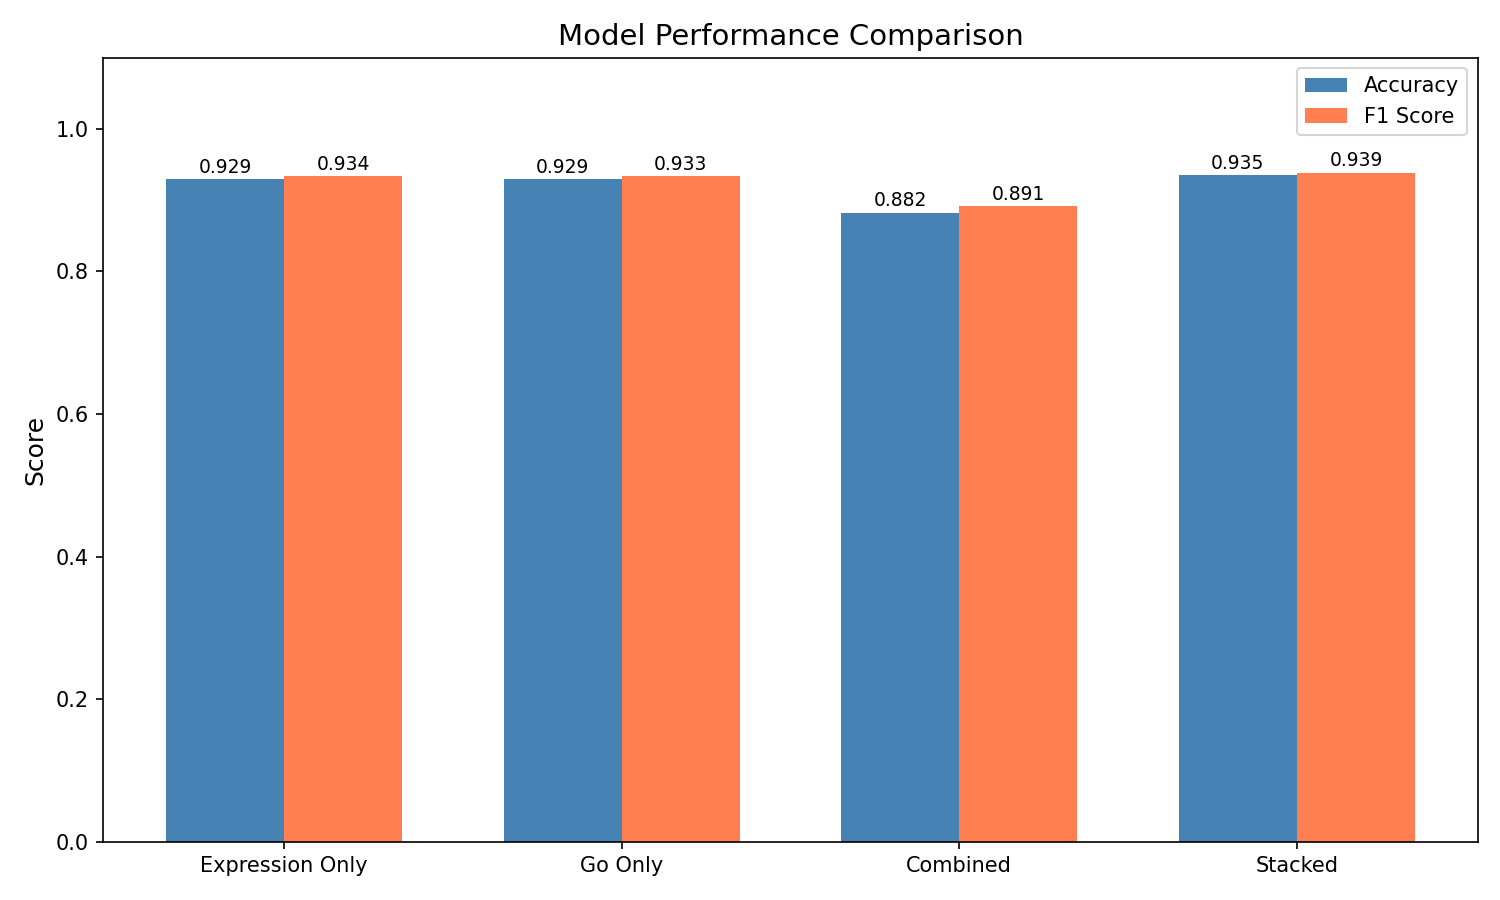
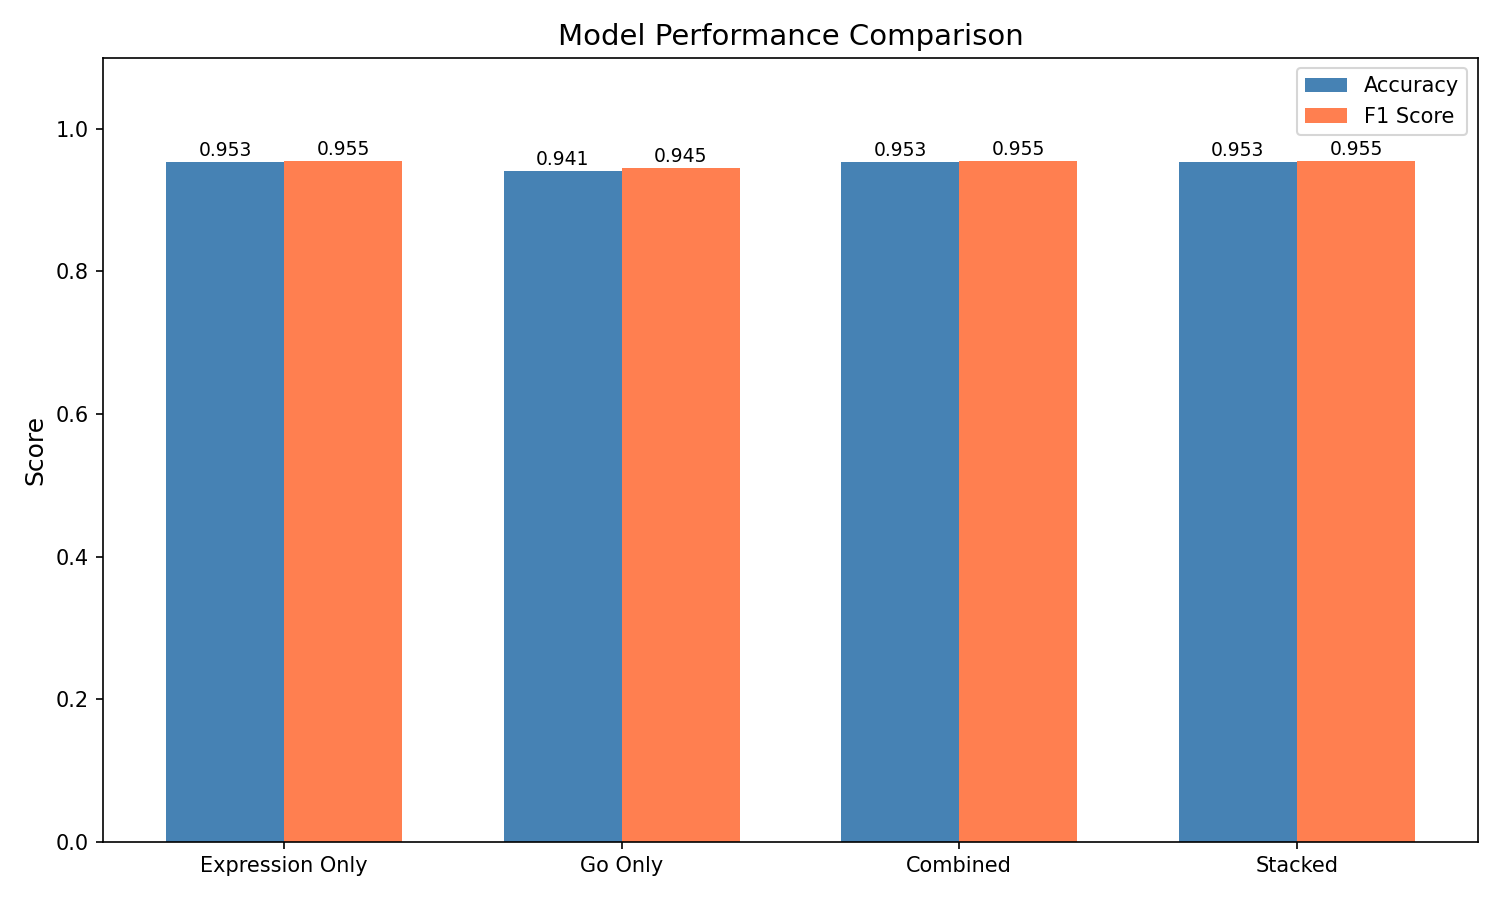
docs: add claude handoff report and update latest visualization artifacts

diff --git a/CLAUDE_HANDOFF_REPORT.md b/CLAUDE_HANDOFF_REPORT.md
@@ -1,0 +1,58 @@
+# Project Status Report: GO-Semantic Dual-Space Lung Cancer Classification
+
+## 1. Project Overview
+This project implements a biologically interpretable machine learning pipeline that distinguishes Lung Adenocarcinoma (LUAD) from Lung Squamous Cell Carcinoma (LUSC). Unlike standard models that rely solely on gene expression (raw counts), this architecture is a **Dual-Space Classifier**. It fuses:
+1. **Expression Space**: Statistical patterns from raw gene expression (PCA + Top Variance genes).
+2. **Gene Ontology (GO) Space**: Functional biological signals extracted using semantic similarity and spectral clustering of the GO hierarchy.
+
+The two spaces are evaluated independently and then fused using a Stacking Meta-Learner (Logistic Regression) to make a final prediction.
+
+## 2. Core Architectural Components
+1. **`preprocessing.py`**: Handles log2 transformation, train/val/test splits, Differential Expression (DEG) analysis, and z-score normalization.
+2. **`go_processor.py`**: Parses the Gene Ontology (`go-basic.obo`) and experimental annotations (`goa_human.gaf`).
+3. **`semantic_similarity.py`**: Computes Information Content (IC) and Lin similarity between genes based on their shared GO terms. Uses a "Local IC" approach (IC derived from the selected DEG gene set rather than the full global corpus).
+4. **`feature_extraction.py`**:
+   - **Expression Features**: PCA components + Top 30 variance genes.
+   - **GO Features**: Clusters genes into functional biological modules using Spectral Clustering on the similarity network. Computes the mean expression of each module.
+5. **`classifier.py`**: Trains RandomForest classifiers for the individual spaces, a GradientBoosting model for combined features, and a LogisticRegression meta-learner (with `StandardScaler`) for the stacked prediction.
+
+## 3. Major Refactoring & Correctness Fixes Completed
+We recently transformed the codebase from a "proof-of-concept" into a scientifically defensible machine learning pipeline. The following critical bugs and data leakages were resolved:
+
+1. **Fixed Data Leakage in Preprocessing**: 
+   - *Previous*: Computed DEG and Z-score normalization on the entire dataset *before* splitting.
+   - *Fix*: The pipeline now splits the data first. DEG analysis and standard scaling parameters are fitted strictly on the **training set** and then applied to the validation/test sets to prevent information bleed.
+2. **Fixed GO Annotation Parsing**: 
+   - *Previous*: The GAF parser incorrectly included "NOT" qualifiers, mapping genes to functions they explicitly do not perform.
+   - *Fix*: Added strict filtering to drop all 'NOT' qualified bindings.
+3. **Fixed Gene Ordering Mismatch**: 
+   - *Previous*: `feature_extraction.py` alphabetically sorted genes before interpreting the Spectral Clustering labels, misaligning the module assignments from the original `go_similarity_matrix.npy`.
+   - *Fix*: It now strictly loads `similarity_genes.json` to guarantee the matrix rows/cols correctly correspond to the original gene insertion order. This change alone recovered 3 misclassifications!
+4. **Fixed Variance Set Leakage**:
+   - *Fix*: Top-30 variance genes are now fitted *only* on the training set and reused for the validation/test subsets.
+5. **Classifier Scoring & Stacking Upgrades**:
+   - *Fix*: Switched AUC-ROC score calculation to use `.predict_proba()` probabilities instead of binary labels.
+   - *Fix*: The Stacking Meta-Learner was upgraded from a 2-branch input to a 3-branch input (`X_expr`, `X_go`, `X_combined`), significantly boosting CV stability.
+   - *Fix*: Safely decoupled class index logic using `LabelEncoder.classes_` instead of hardcoding `1` for LUAD.
+
+## 4. Final Validated Results
+With all data leakage eliminated and modules aligning correctly, the current validated performance on the held-out validation set (170 samples) is extremely strong:
+
+| Model | 5-Fold CV Accuracy | Validation Accuracy | AUC-ROC |
+|-------|--------------------|-----------------------|---------|
+| Expression-only (RF) | 92.6% | 95.3% | 0.971 |
+| GO-only (RF) | 91.9% | 94.1% | 0.959 |
+| Combined (concat) | 92.6% | 95.3% | 0.981 |
+| **Stacked (meta-learner)** | **93.0%** | **95.3%** | **0.972** |
+
+*Only 8 out of 170 validation samples are misclassified by the stacked model.*
+
+## 5. Next Steps: The Interpretability Suite
+The pipeline is now highly accurate and robust. The final major objective to transition to before final presentation is building an **Interpretability Suite** (`src/interpretability.py`) containing 7 planned features:
+
+1. **Bootstrap Meta-Learner Coefficients**: Resample the training data 1000 times to generate confidence intervals for the Stacking Meta-Learner weights (proving neither branch is redundant).
+2. **Per-Branch Feature Importances**: Extract Top-10 features (mapped to real gene/module names) from the Random Forest models.
+3. **GO Enrichment per Module**: Automatically query the `go_processor` to name the dominant biological functions inside each Spectral Clustering module.
+4. **Stacking Breakdown & Sample Sentences**: Generate human-readable narrative text explaining exactly why the meta-learner decided on a specific prediction for a specific patient.
+5. **SHAP Explanations**: Use TreeSHAP on the Expression RF to generate Beeswarm and Waterfall plots for high-confidence vs misclassified samples.
+6. **Calibration Plots**: Draw probability-vs-frequency curves to evaluate if the model's confidence scores are experimentally trustworthy.
